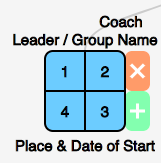
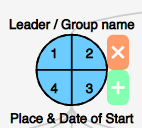
Updated Movementeer variant

diff --git a/movementeer/template.js b/movementeer/template.js
@@ -11,12 +11,24 @@ const template = {
     }
   },
   'svg': {
-    'node-big-rect': {
+    'node-big-rect-1': {
       'type': 'rect',
       'attributes': {
         'x': -boxHeight / 2,
         'y': 0,
-        'rx': boxHeight * 0.1,
+        'stroke-width': 0,
+        'width': boxHeight,
+        'height': boxHeight,
+        'opacity': 0
+      }
+    },
+    'node-big-rect-2': {
+      'type': 'rect',
+      'attributes': {
+        'x': -boxHeight / 2,
+        'y': 0,
+        'rx': boxHeight * 0.5,
+        'stroke-width': 0,
         'width': boxHeight,
         'height': boxHeight
       }
@@ -180,7 +192,19 @@ const template = {
       'header': 'church',
       'initial': false,
       'description': 'Is church?',
-      'type': 'checkbox'
+      'type': 'checkbox',
+      'svg': {
+        'type': 'rect',
+        'attributes': {
+          'x': -boxHeight / 2,
+          'y': 0,
+          'rx': boxHeight * 0.5,
+          'width': boxHeight,
+          'height': boxHeight,
+          'stroke-dasharray': '7, 7',
+          'fill-opacity': 0
+        }
+      }
     },
     {
       'header': 'actionSteps',

diff --git a/movementeer/index.html b/movementeer/index.html
@@ -37,7 +37,7 @@
         1 - # of unbelievers<br>
         2 - # of believers<br>
         3 - # of leaders<br>
-        4 - # of new churches<br>
+        4 - # of reproducing<br>
       </p>
       <p>Click on the group to edit it.<br>
       Click on red button to remove group. (Works only for groups without descendants.)<br>
@@ -46,7 +46,7 @@
       <h3>Import / Export</h3>
       <p>
       Note: If you don't export, all changes will be lost when refreshing or closing page.<br>
-      You can import a .xlsx or .xls (MS Excel) or .csv (Comma separated values) files. Please use this <a href="example-map.xlsx" download>XLSX example spreadsheet</a>.<br>
+      You can import a .xlsx or .xls (MS Excel) or .csv (Comma separated values) files.<br>
       Export is currently available only to .csv format.<br>
       <strong>Note:</strong> Some versions of Safari have problems with export to csv. If a new tab with blob is opened instead of file downloaded (see example below)
       <img src="../safari-export-issue-0.png" style="margin:10px; margin-left:0px;" alt="safari export issue">
